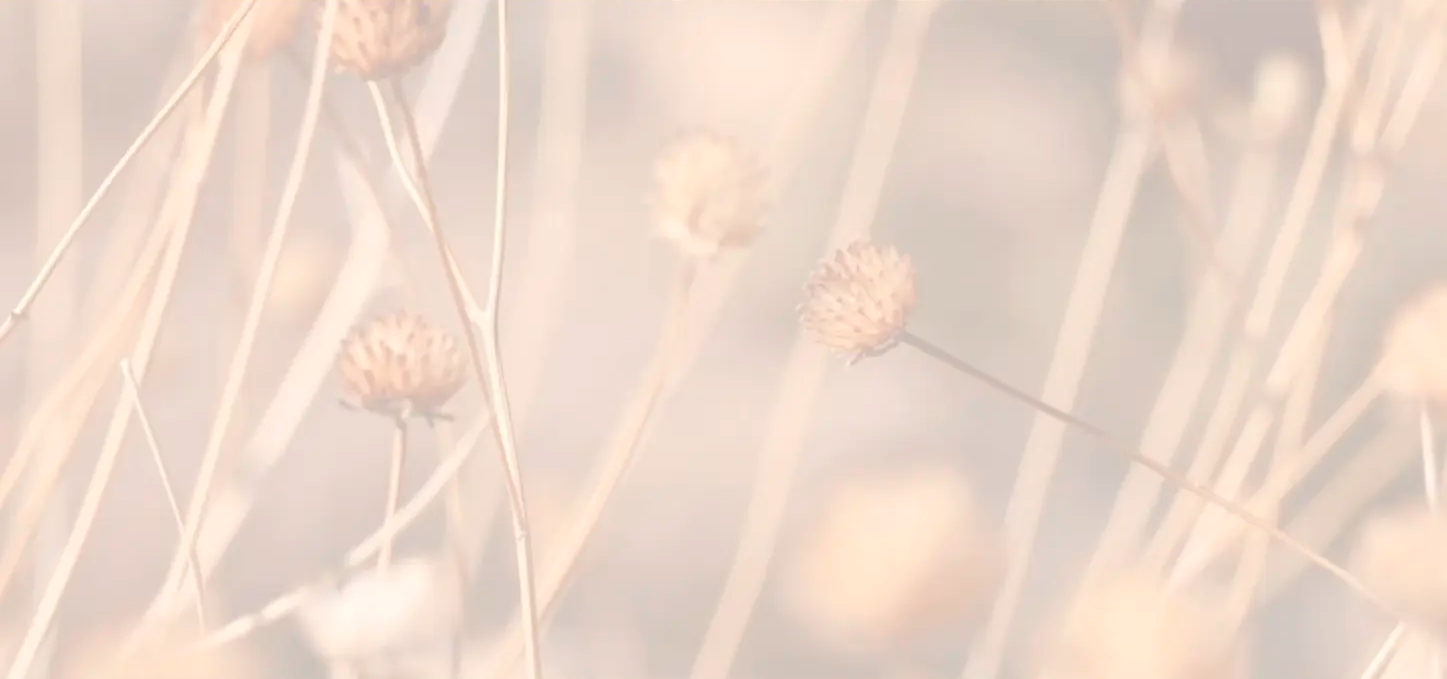
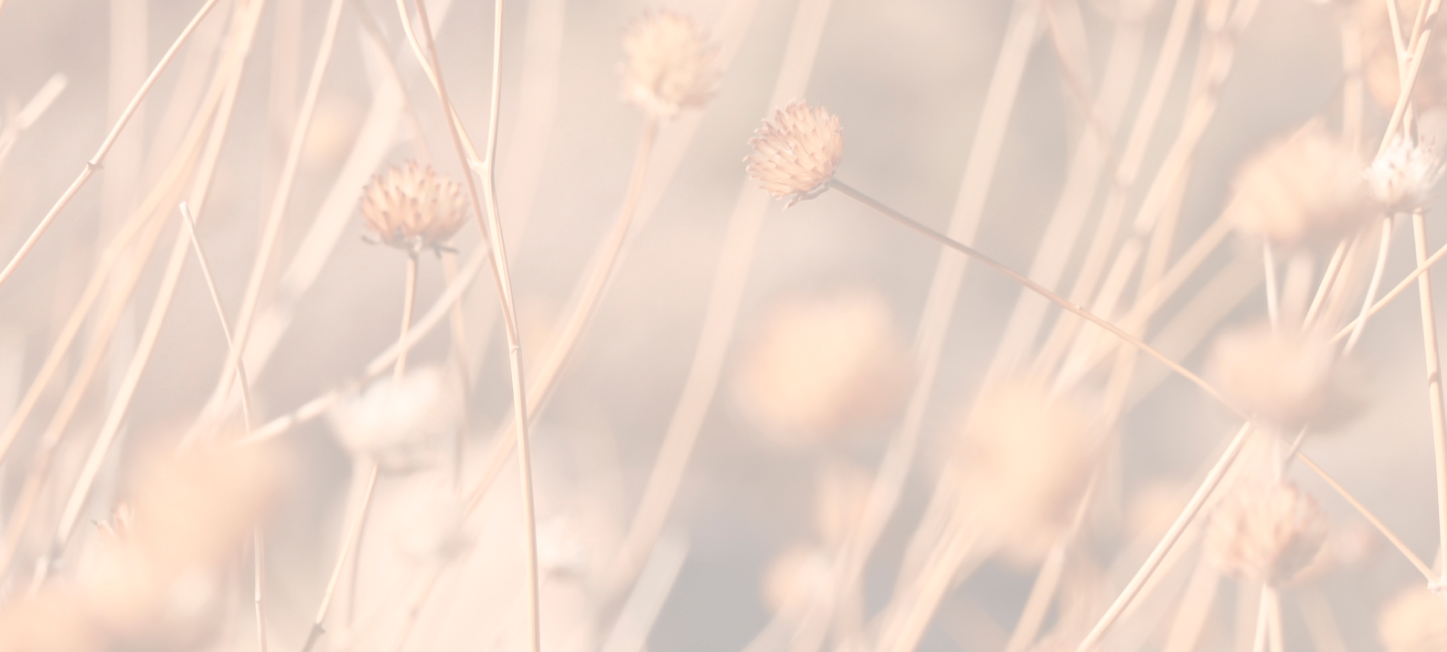
Updates

diff --git a/src/pages/index.js b/src/pages/index.js
@@ -11,87 +11,91 @@ export default function Home() {
   return (
     <>
       <div className="antialiased bg-black">
-        <div className="mx-auto text-white bg-[#dbd4c2] text-opacity-90 max-w-[1447px]">
+        <div className="mx-auto text-white bg-[#dbd4c2] text-opacity-90 max-w-[1427px]">
           <div
-            className="px-4 py-10 text-center bg-no-repeat bg-cover"
+            className="bg-top bg-no-repeat bg-cover "
             style={{
-              backgroundImage: "url(/images/new_landing/hero_compressed.webp)",
+              backgroundImage: "url(/images/main-top-bg.png)",
             }}
           >
-            <h1 className="mt-32 text-6xl tracking-widest md:mt-32 md:text-9xl leading-1">
-              MOSS
-            </h1>
-            <p className="pb-10 text-xl font-light md:-mt-2">
-              co-working + events
-            </p>
-            <h1 className="text-2xl tracking-widest mb-44 md:mb-64 md:pb-24 md:text-3xl">
-              in the heart of venice
-            </h1>
+            <div className="px-4 py-10 text-center ">
+              <h1 className="mt-32 text-6xl tracking-widest md:mt-32 md:text-9xl leading-1">
+                MOSS
+              </h1>
+              <p className="pb-10 text-xl font-light md:-mt-2">
+                co-working + events
+              </p>
+              <h1 className="text-2xl tracking-widest mb-44 md:mb-64 md:pb-24 md:text-3xl">
+                in the heart of venice
+              </h1>
 
-            <div className="grid md:grid-cols-2">
-              <div className="hidden space-y-24 text-left md:block">
-                <div>
-                  <h1 className="text-4xl ">OUR SPACE</h1>
-                </div>
-                <div>
-                  <p className="text-3xl">Bio-architecture</p>
-                  <p className="text-xl font-light ">
-                    live + work in communion with nature
-                  </p>
-                </div>
-                <div>
-                  <p className="text-3xl">Wabi Sabi</p>
-                  <p className="text-xl font-light">
-                    find beauty in the perfectly imperfect
-                  </p>
-                </div>
-                <div>
-                  <p className="text-3xl">Minimalism</p>
-                  <p className="text-xl font-light">clarity of mind + peace</p>
-                </div>
-              </div>
-              <div className="flex justify-end">
-                <div className="max-w-2xl text-left md:mt-5">
-                  <h1 className="text-2xl md:text-4xl">YOU ARE INVITED ⋆</h1>
+              <div className="grid md:grid-cols-2">
+                <div className="hidden space-y-24 text-left md:block">
                   <div>
-                    <h1 className="mt-3 text-xl md:text-4xl drop-shadow-title">
-                      co-working by day | event space by night
-                    </h1>
+                    <h1 className="text-4xl ">OUR SPACE</h1>
                   </div>
                   <div>
-                    <p className="mt-10 text-xl font-light leading-normal md:mb-24 md:mt-16 md:text-3xl">
-                      MOSS is a place for leaders, technologists, creators,
-                      artists, writers, and healers to explore, create, and grow
-                      together.
+                    <p className="text-3xl">Bio-architecture</p>
+                    <p className="text-xl font-light ">
+                      live + work in communion with nature
+                    </p>
+                  </div>
+                  <div>
+                    <p className="text-3xl">Wabi Sabi</p>
+                    <p className="text-xl font-light">
+                      find beauty in the perfectly imperfect
+                    </p>
+                  </div>
+                  <div>
+                    <p className="text-3xl">Minimalism</p>
+                    <p className="text-xl font-light">
+                      clarity of mind + peace
                     </p>
                   </div>
                 </div>
+                <div className="flex justify-end">
+                  <div className="max-w-2xl text-left md:mt-5">
+                    <h1 className="text-2xl md:text-4xl">YOU ARE INVITED ⋆</h1>
+                    <div>
+                      <h1 className="mt-3 text-xl md:text-4xl drop-shadow-title">
+                        co-working by day | event space by night
+                      </h1>
+                    </div>
+                    <div>
+                      <p className="mt-10 text-xl font-light leading-normal md:mb-24 md:mt-16 md:text-3xl">
+                        MOSS is a place for leaders, technologists, creators,
+                        artists, writers, and healers to explore, create, and
+                        grow together.
+                      </p>
+                    </div>
+                  </div>
+                </div>
+              </div>
+
+              <div className="flex justify-center mt-10 md:mt-[-3.6rem]">
+                <a
+                  href="https://buy.stripe.com/test_7sIeW8g7t6VP17afYY"
+                  className="bg-beige-500 hover:bg-beige-700 text-white py-5 px-8 rounded-3.5xl tracking-tight"
+                >
+                  <p className="text-2xl drop-shadow-title">
+                    Become a Founding Member
+                  </p>
+                </a>
               </div>
             </div>
-
-            <div className="flex justify-center mt-10 md:mt-[-3.6rem]">
-              <a
-                href="https://buy.stripe.com/test_7sIeW8g7t6VP17afYY"
-                className="bg-beige-500 hover:bg-beige-700 text-white py-5 px-8 rounded-3.5xl tracking-tight"
-              >
-                <p className="text-2xl drop-shadow-title">
-                  Become a Founding Member
-                </p>
-              </a>
-            </div>
+            <img
+              src="/images/section-2.png"
+              className="hidden w-full opacity-0 md:block"
+            />
           </div>
 
           <div
-            className="bg-bottom bg-cover md:bg-center"
+            className="bg-top bg-no-repeat bg-cover "
             style={{
-              backgroundImage: "url(/images/section-bg.png)",
+              backgroundImage: "url(/images/section-3.png)",
             }}
           >
             <div className="px-4 py-16 bg-top bg-cover lg:min-h-min md:py-0 lg:px-0">
-              <img
-                src="/images/section-2.png"
-                className="hidden w-full opacity-0 md:block"
-              />
               <div className="space-y-8 text-left md:hidden md:my-0 my-[20%]">
                 <div>
                   <h1 className="text-3xl font-semibold">OUR SPACE</h1>
@@ -115,7 +119,7 @@ export default function Home() {
               </div>
             </div>
 
-            <div className="px-4 py-20 bg-bottom bg-cover bg-opacity-[.75] lg:py-36 lg:px-0 relative z-[2] shadow-md">
+            <div className="px-4 py-20  bg-cover bg-opacity-[.75] lg:py-[8.2rem] bg-top lg:px-0 relative z-[2] shadow-md ">
               <div className="block max-w-5xl mx-auto lg:px-10 lg:py-16 lg:bg-brown lg:bg-opacity-70">
                 <div className="grid gap-10 md:grid-cols-2 md:gap-0">
                   <div className="p-8 text-center md:text-left lg:bg-transparent bg-brown bg-opacity-70 lg:bg-opacity-0 lg:p-0">
